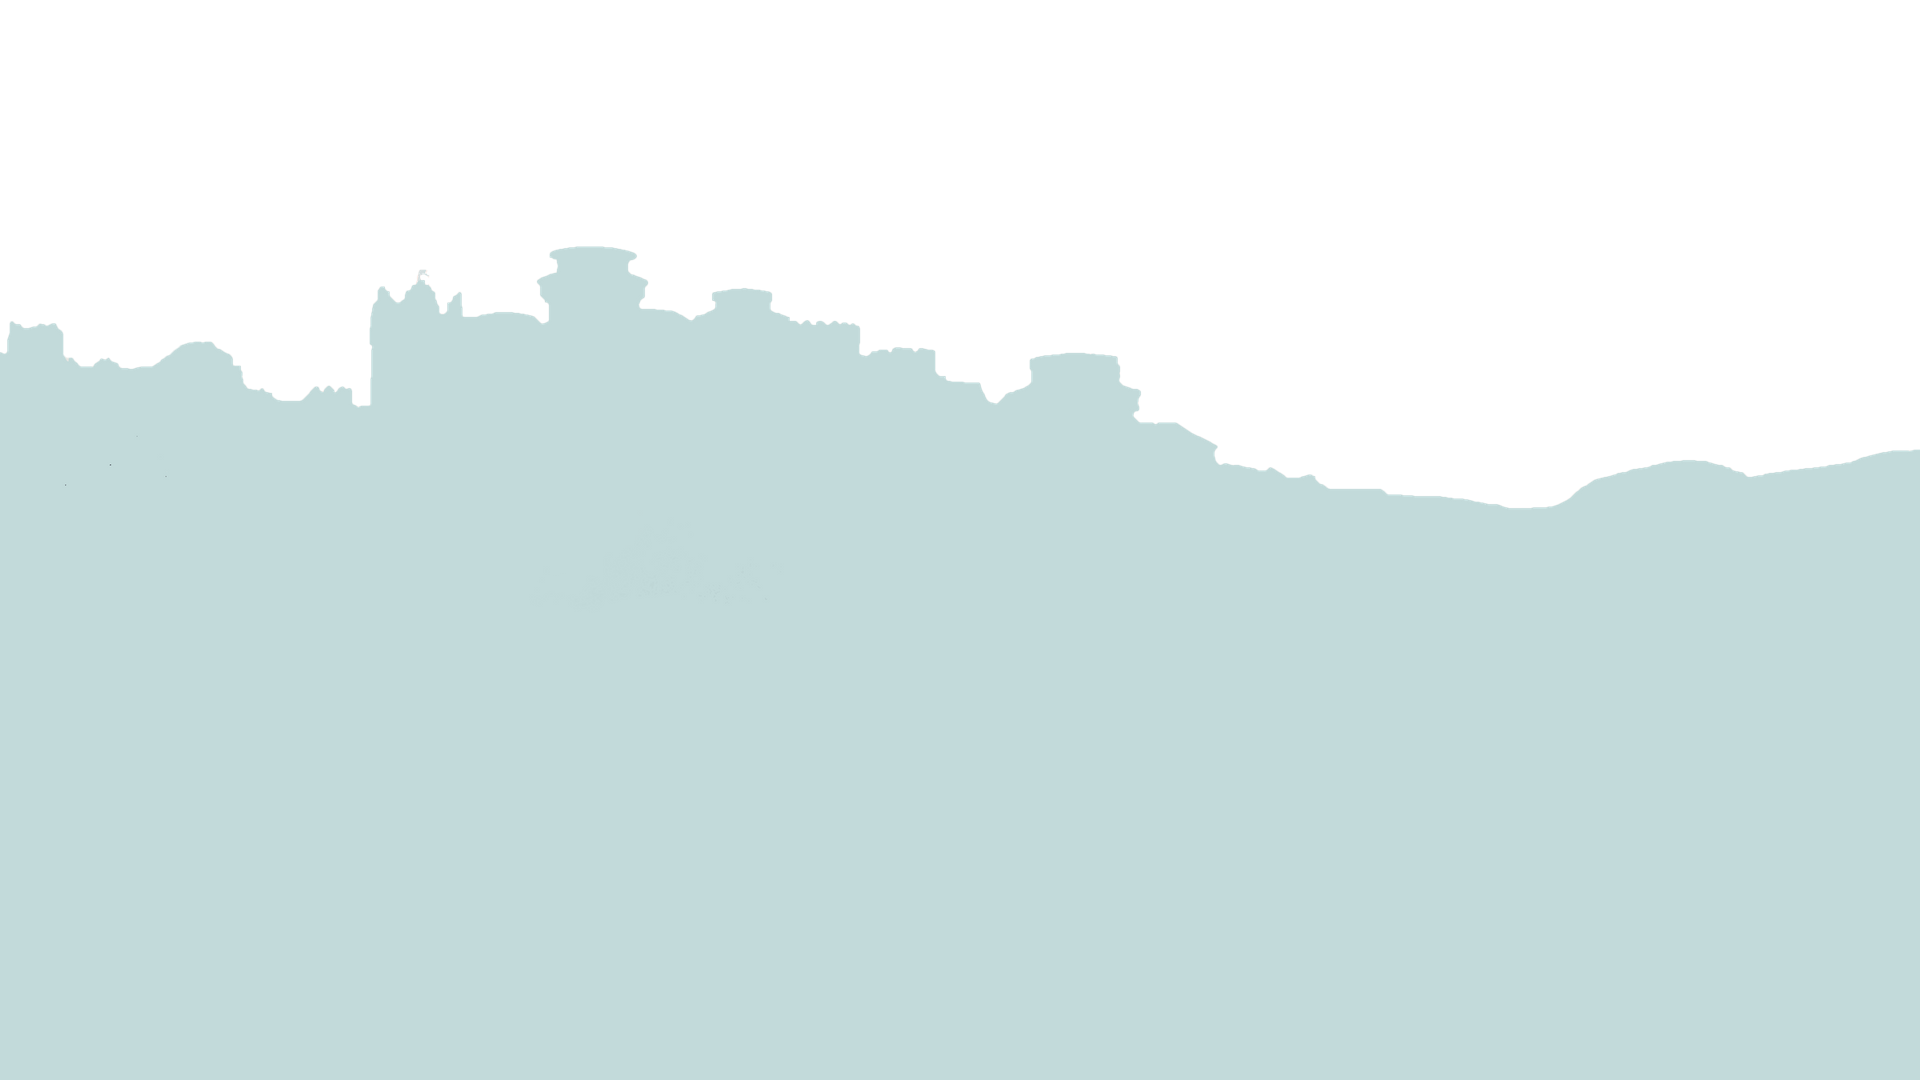
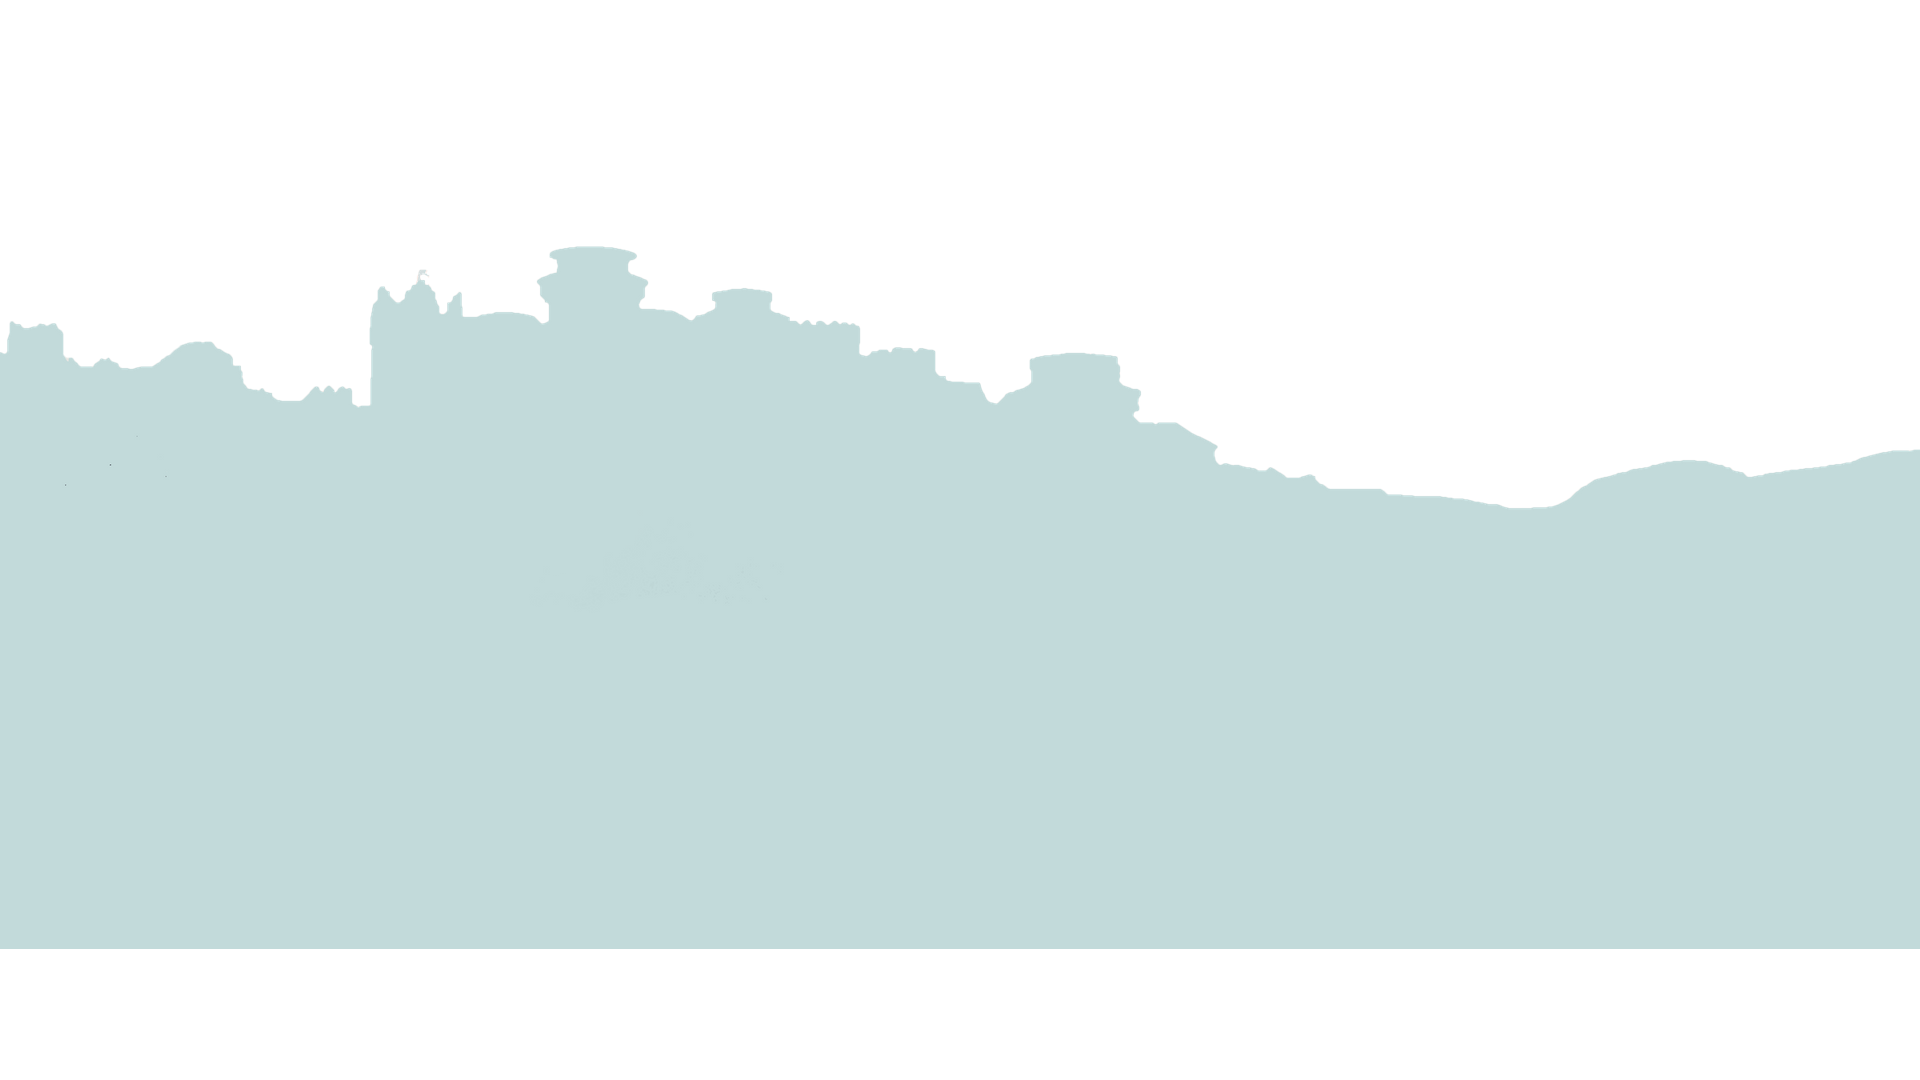
add header fixes

Changed region(s): [[0.0, 0.8556, 1.0, 1.0]]

diff --git a/src/partials/Header.js b/src/partials/Header.js
@@ -40,9 +40,9 @@ const HeaderTop = styled.div`
 const HeaderBottom = styled.div`
   background-image: url(imgs/bg-3.png);
   background-size: cover;
-  background-position: center center;
+  background-position: top;
   width: 100vw;
-  height: 100vh;
+  height: 90vh;
   position: absolute;
   top: 0;
   background-repeat: no-repeat;
